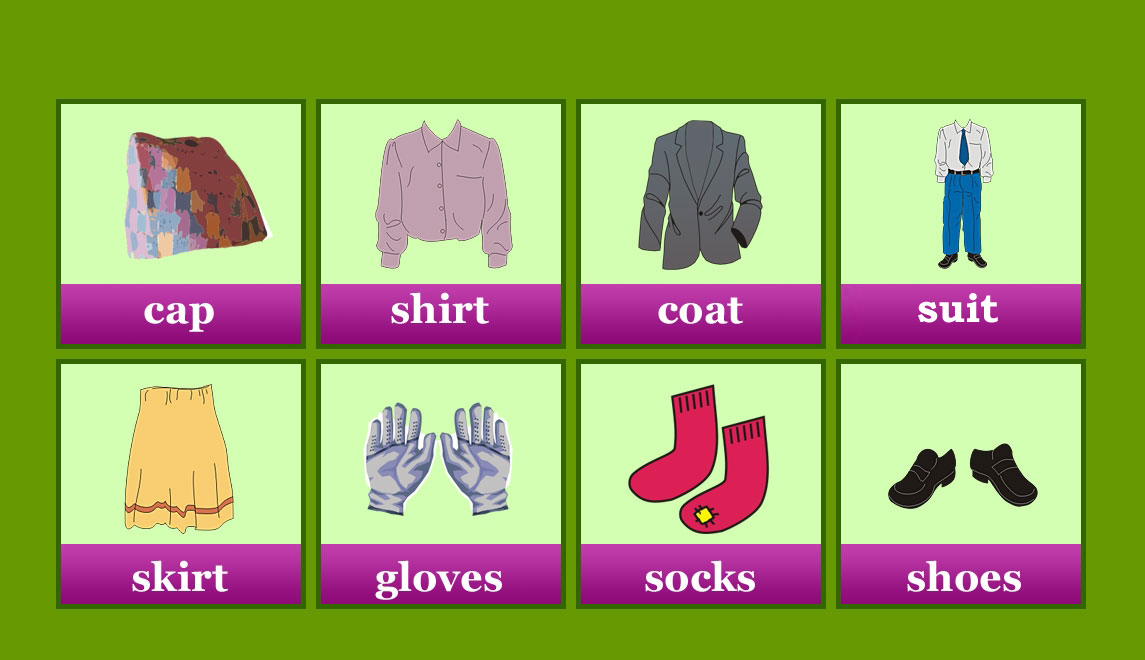
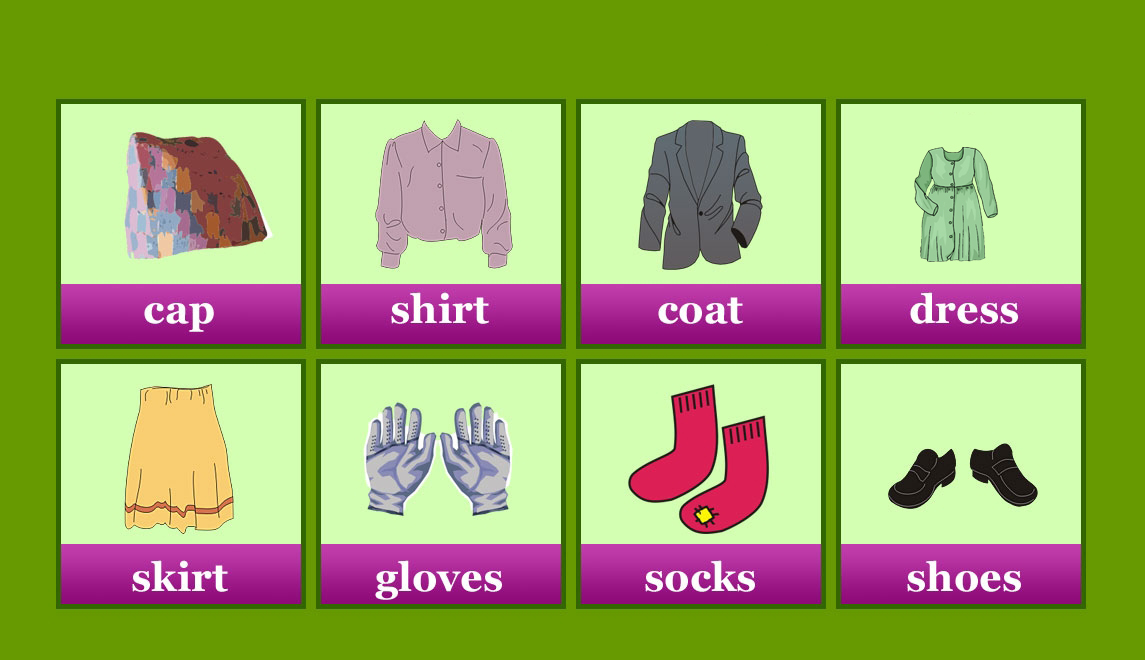
Replaced suit by dress in vocabulary-clothes lesson (bug 846)

Changed region(s): [[0.7948, 0.1818, 0.8865, 0.5152]]

diff --git a/lessons/vocabulary-clothes/description.py b/lessons/vocabulary-clothes/description.py
@@ -7,7 +7,7 @@ items = [
     dict(name='cap', left=138, top=290, width=85),
     dict(name='shirt', left=387, top=285, width=110),
     dict(name='coat', left=650, top=287, width=100),
-    dict(name='suit', left=906, top=287, width=120),
+    dict(name='dress', left=906, top=287, width=120),
     dict(name='skirt', left=120, top=553, width=120),
     dict(name='gloves', left=372, top=553, width=134),
     dict(name='socks', left=639, top=553, width=120),
